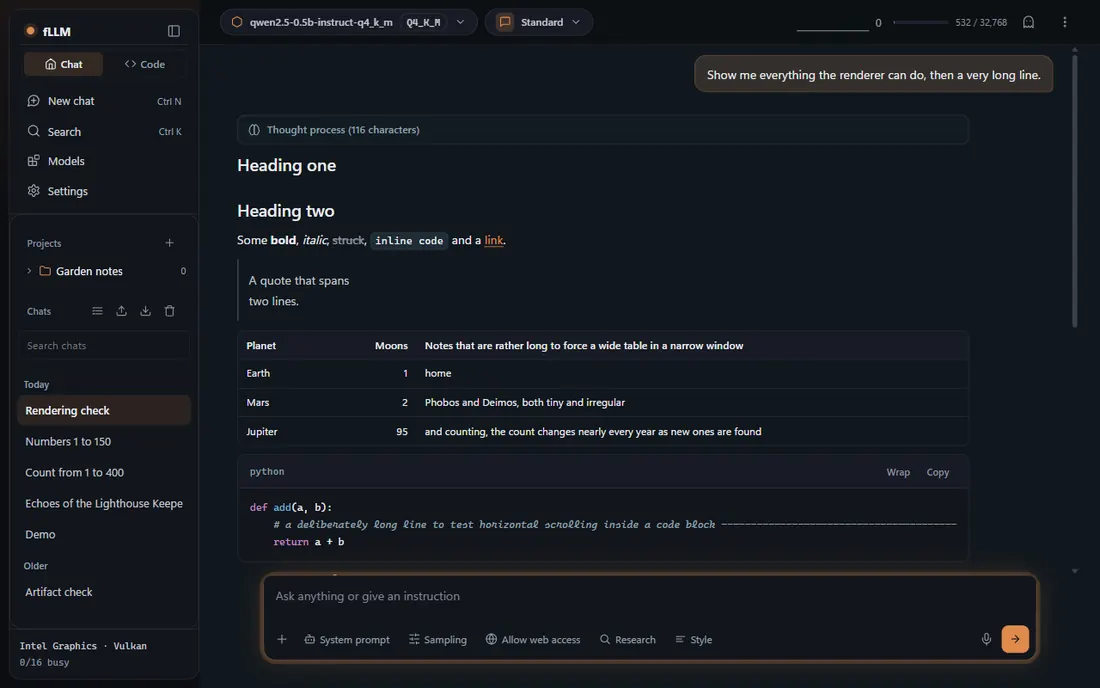
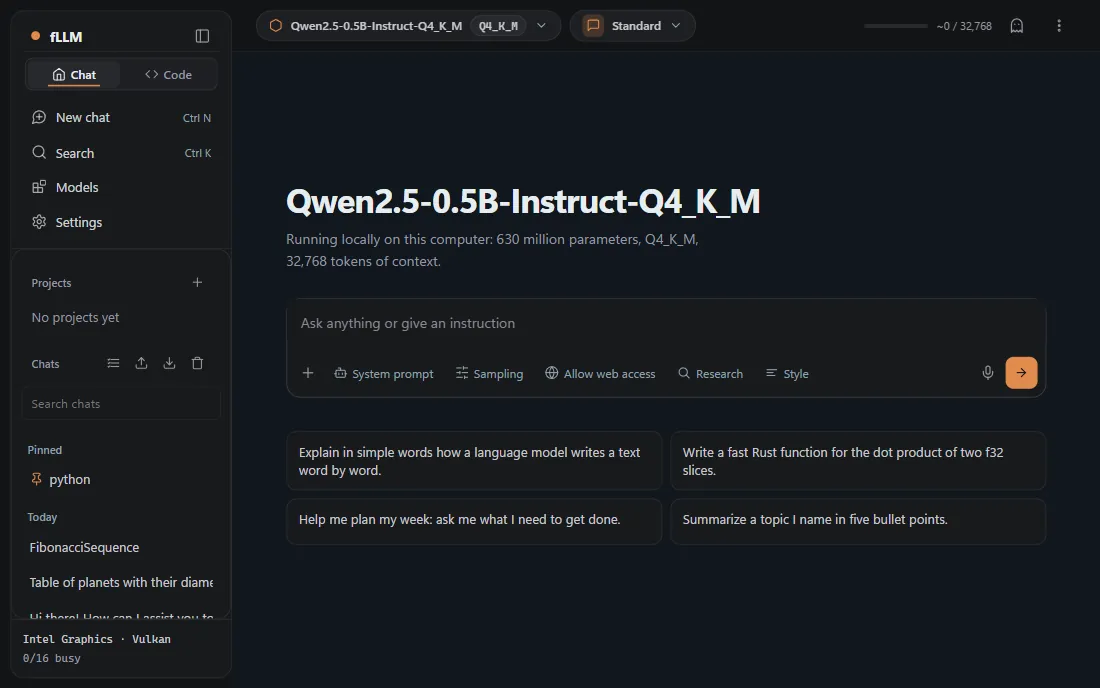
Studio: softer coloured user bubble, new README and docs screenshots (compressed WebP)

diff --git a/rust/engine/src/webui/theme.css b/rust/engine/src/webui/theme.css
@@ -898,3 +898,5 @@ html.dark {
 .msg-user-bubble { background: var(--surface-3); border-color: var(--border); }
 .chat-input-box:focus-within { border-color: var(--border-strong); box-shadow: none; }
 .code-input-box:focus-within { border-color: var(--border-strong); box-shadow: none; }
+
+body.colored-user-bubble .msg-user-bubble { background: color-mix(in srgb, var(--primary) 7%, var(--surface-3)); border-color: var(--border-strong); }

diff --git a/CHANGELOG.md b/CHANGELOG.md
@@ -15,6 +15,7 @@ behaviour between versions).
 - **Studio Settings > Model providers: no more Ollama first.** The template list started with Ollama, which makes little sense in an app that is itself the local engine. The templates are now grouped: Cloud APIs (OpenAI, Anthropic, Google Gemini, Mistral, DeepSeek, Groq, OpenRouter, Together AI, Fireworks AI, Cerebras, xAI, Ollama Cloud, any other OpenAI-compatible address) and, in a collapsed optional section, other servers on your network (Ollama, LM Studio, vLLM, llama.cpp). The key field links to the page where the service hands out keys, and Test connection lists the models it found. Stored providers are unchanged.
 - **Studio colours: one calm palette.** The sidebar header and chat area looked like two palettes (a warm brown/orange glow and a brown Chat tab next to a cold blue-black body). Both themes now use one neutral background family for the sidebar, header and chat; the Chat/Code switch is a neutral segment with a thin accent line; active rows, chips and the user bubble are neutral. The copper accent stays on primary buttons, the logo dot and thin indicators; the light-theme accent is a little brighter.
 - **Studio, first-run walk-through fixes.** No more 400/404 errors in the console when no model or no folder is chosen: the coding-agent routes (tools, browser, computer use) are not asked for while no model is loaded, and the inbox is not asked for without a folder (the route answers an empty list). The start screen counter follows the model that was just loaded (it kept saying 4,096). The key page says that keys need a loaded model instead of failing. The Sub-agents form lists the built-in tool names without a model, and treats bash_kill and memory as acting tools (a new agent really is read-only). The leftover German label under the token graph is English.
+- **README and Studio screenshots** (chat dark and light, hardware) show the new calm palette and the single merged GPU card; the coloured user bubble is a much softer tint.
 
 ## [0.2.0] - 2026-10-31
 

diff --git a/README.md b/README.md
@@ -246,7 +246,7 @@ Details: [docs/quantization.md](docs/quantization.md), [docs/user/quants-and-for
 model manager (the desktop app shows the same page in its own window): [docs/user/studio.md](docs/user/studio.md).
 Inside the Studio:
 
-![The Studio: a chat with a table and a code block, dark theme](docs/img/studio-chat-dark.webp)
+![The Studio with a model loaded and the new chat open, dark theme](docs/img/studio-chat-dark.webp)
 
 The page follows the light or dark setting of your system, works down to a phone-sized window, has a command palette (Ctrl+K) and a
 settings search, and its footer and Hardware page show which device runs the model and how full each device's memory is

diff --git a/docs/user/studio.md b/docs/user/studio.md
@@ -10,7 +10,7 @@ fllm-rs studio                                # later starts reuse the last mode
 fllm-rs serve --model model.gguf              # the same page is served at / by every fllm-rs server
 ```
 
-![The Studio in the dark theme: a chat with a table, a code block and a collapsed reasoning block](../img/studio-chat-dark.webp)
+![The Studio in the dark theme with a model loaded and a new chat open](../img/studio-chat-dark.webp)
 
 `studio` is `serve` plus two conveniences: it remembers the model it started with (and the one you switch to in the page) and opens the
 page in your default browser (`--no-open` keeps it closed). All other `serve` options work unchanged.
